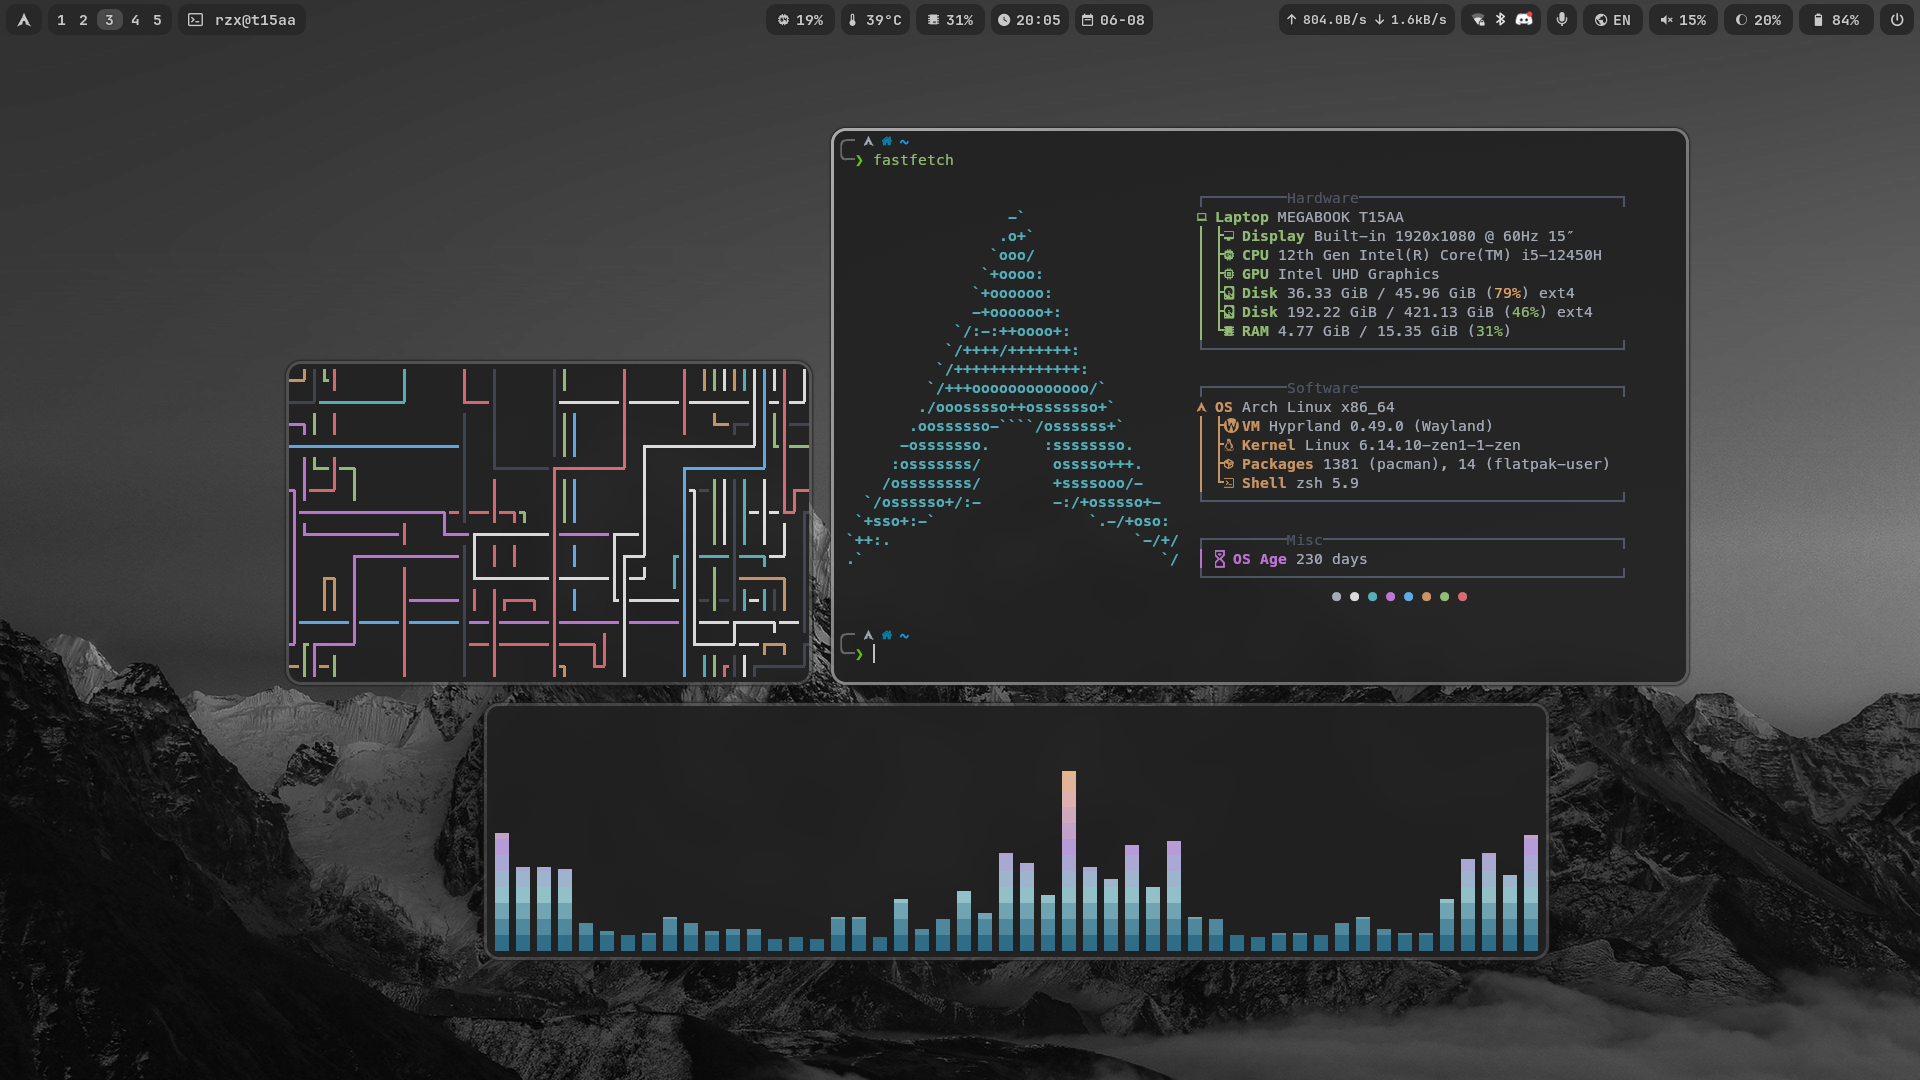
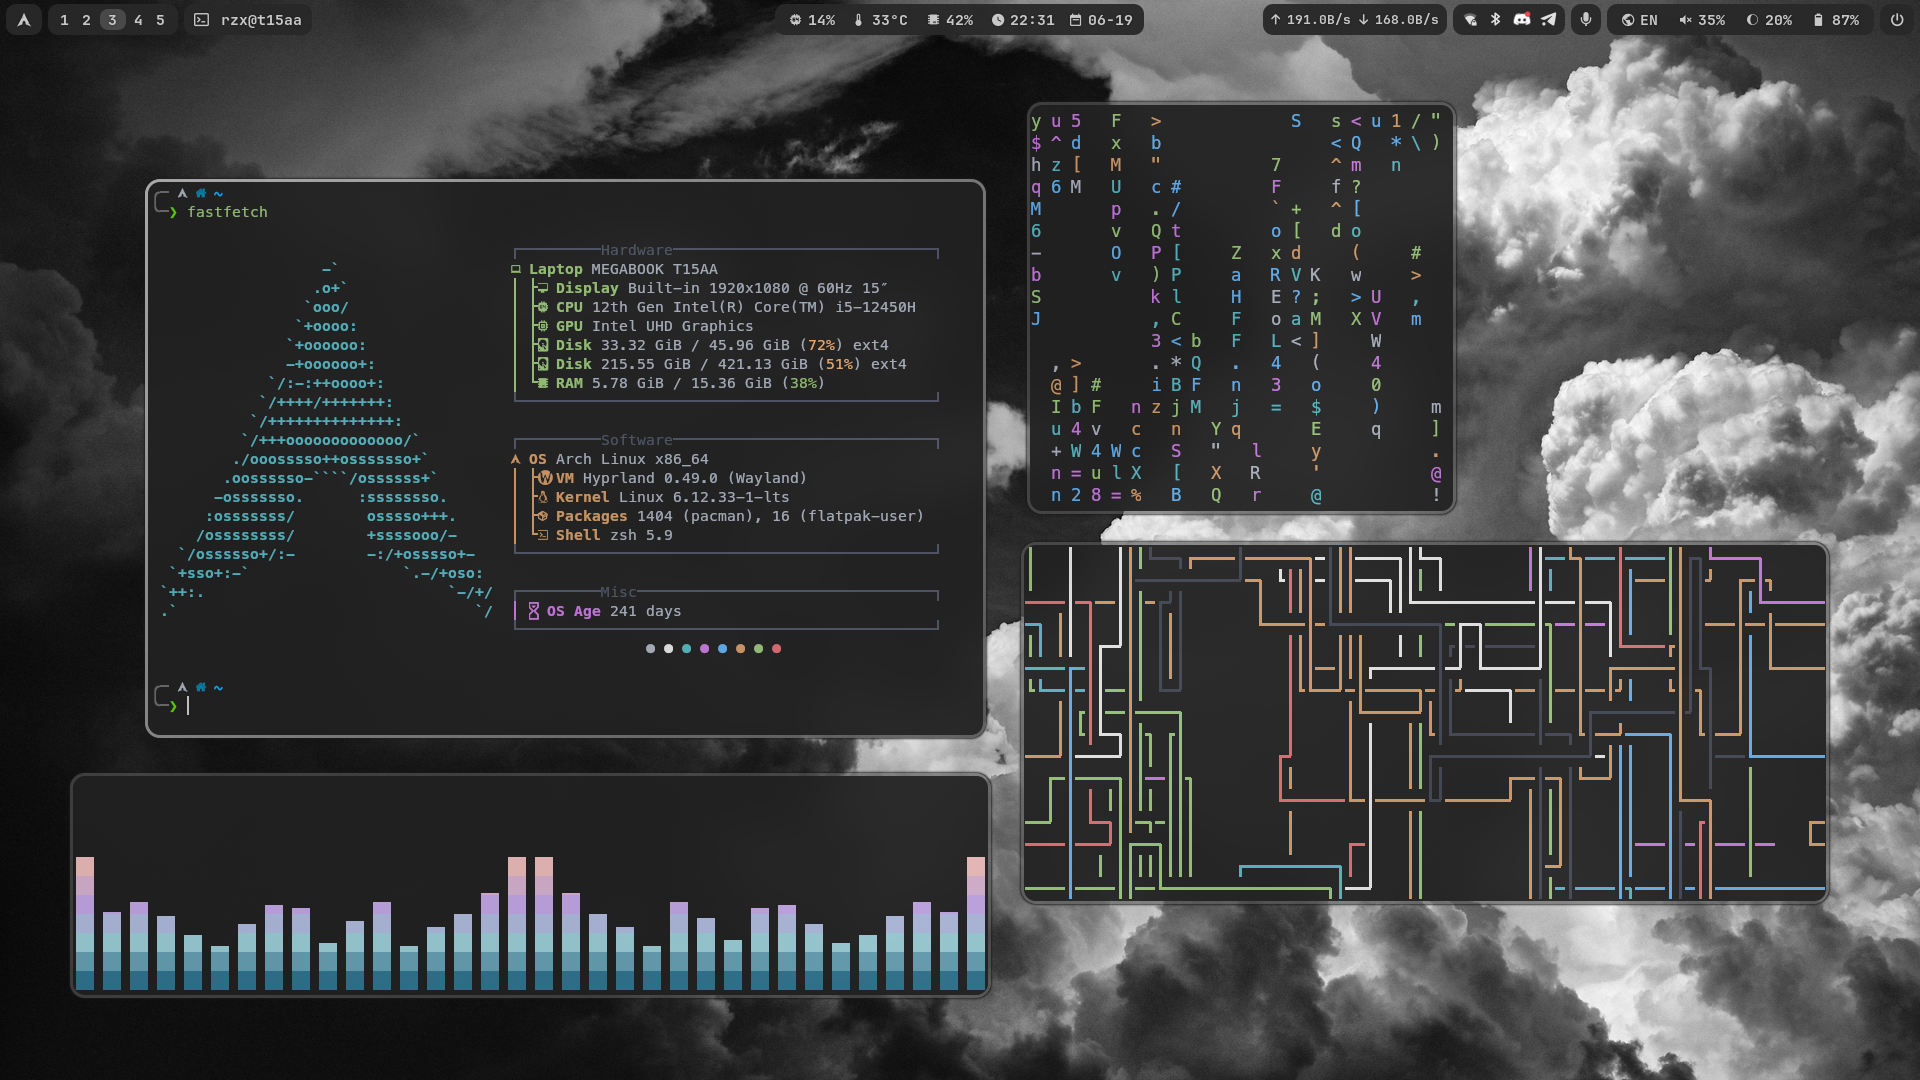
Изменены стили waybar (группировка модулей)

diff --git a/Configs/.config/waybar/styles.css b/Configs/.config/waybar/styles.css
@@ -1,6 +1,5 @@
 @import "./theme.css";
 
-
 /* -- Global Styling -- */
 * {
   border: none;
@@ -15,10 +14,9 @@ window#waybar {
   background: @background;
 }
 
-window#waybar>box {
+window#waybar > box {
   margin-top: 4px;
 }
-
 
 /* -- Tooltip Styling -- */
 tooltip {
@@ -29,7 +27,6 @@ tooltip {
   border-radius: 10px;
   border-color: @foreground;
 }
-
 
 /* -- General Module Styling -- */
 #idle_inhibitor,
@@ -49,15 +46,13 @@ tooltip {
 #battery,
 #custom-power {
   opacity: 1;
-  padding: 3px 3px;
+  padding: 3px 6px;
   margin: 0 3px;
   border-radius: 10px;
   text-shadow: 0px 0px 2px rgba(22, 22, 22, 0.8);
 }
 
-
 /* -- Left Modules -- */
-
 /* Idle Inhibitor */
 #idle_inhibitor {
   background: @logo;
@@ -109,12 +104,25 @@ tooltip {
   padding-left: 10px;
 }
 
-
 /* -- Central Modules --  */
+#custom-cpu,
+#custom-cpuinfo,
+#memory,
+#clock.time,
+#clock.date {
+  margin-left: 0;
+  margin-right: 0;
+  border-radius: 0;
+  padding: 3px 3px;
+}
 
 /* CPU */
 #custom-cpu {
   background: @cpu;
+  border-top-left-radius: 10px;
+  border-bottom-left-radius: 10px;
+  margin-left: 6px;
+  padding-left: 6px;
 }
 
 /* CPU Temperature */
@@ -135,15 +143,11 @@ tooltip {
 /* Date */
 #clock.date {
   background: @date;
-}
-
-/* Wifi */
-#custom-wifi {
-  background: @wifi;
+  border-top-right-radius: 10px;
+  border-bottom-right-radius: 10px;
+  margin-right: 6px;
   padding-right: 6px;
-  padding-left: 4px;
 }
-
 
 /* -- Right Modules -- */
 
@@ -153,7 +157,7 @@ tooltip {
   padding-right: 8px;
   padding-left: 8px;
   font-size: 13px;
-} 
+}
 
 /* Tray */
 #tray {
@@ -187,9 +191,24 @@ tooltip {
   padding-left: 8px;
 }
 
+/* Right modules group */
+#language,
+#pulseaudio,
+#custom-backlight,
+#battery {
+  margin-left: 0;
+  margin-right: 0;
+  border-radius: 0;
+  padding: 3px 2px;
+}
+
 /* Language */
 #language {
   background: @language;
+  border-top-left-radius: 10px;
+  border-bottom-left-radius: 10px;
+  margin-left: 3px;
+  padding-left: 6px;
 }
 
 /* PulseAudio */
@@ -205,8 +224,10 @@ tooltip {
 /* Battery */
 #battery {
   background: @battery;
+  border-top-right-radius: 10px;
+  border-bottom-right-radius: 10px;
+  margin-right: 3px;
   padding-right: 6px;
-  padding-left: 6px;
 }
 
 #battery.warning {
